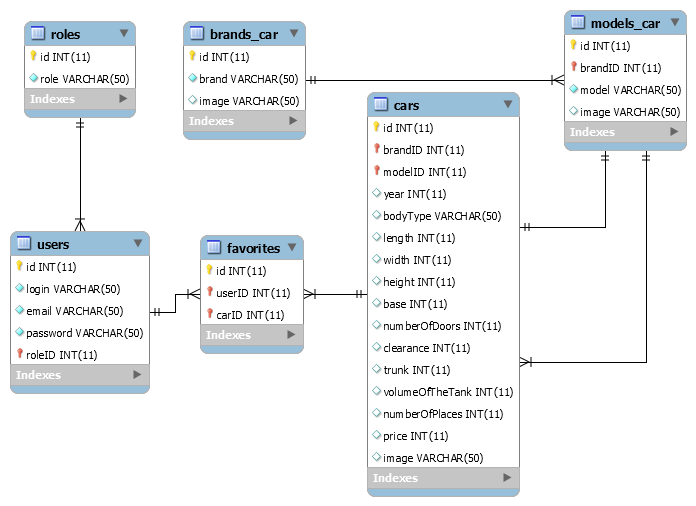
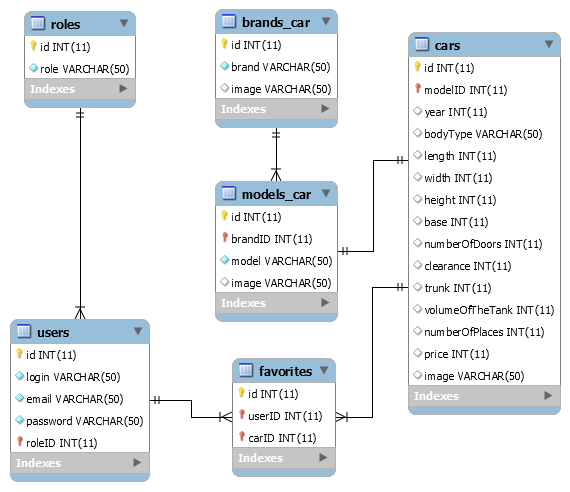
delete column BrandId in table cars. Update sql diagram

diff --git a/src/main/java/by/htp/car_catalog/domain/Car.java b/src/main/java/by/htp/car_catalog/domain/Car.java
@@ -8,7 +8,6 @@ public class Car extends Entity {
 
     private static final long serialVersionUID = 1984566728743718380L;
 
-    private BrandCar brandID;
     private ModelCar modelID;
     @Column(name = "year")
     private int year;
@@ -44,17 +43,15 @@ public class Car extends Entity {
 	super(id);
     }
 
-    public Car(int id, BrandCar brandID, ModelCar modelID) {
+    public Car(int id, ModelCar modelID) {
 	super(id);
-	this.brandID = brandID;
 	this.modelID = modelID;
     }
 
-    public Car(int id, BrandCar brandID, ModelCar modelID, int year, String bodyType, int length, int width, int height,
-	    int base, int numberOfDoors, int clearance, int trunk, int volumeOfTheTank, int numberOfPlaces, int price,
+    public Car(int id, ModelCar modelID, int year, String bodyType, int length, int width, int height, int base,
+	    int numberOfDoors, int clearance, int trunk, int volumeOfTheTank, int numberOfPlaces, int price,
 	    String image) {
 	super(id);
-	this.brandID = brandID;
 	this.modelID = modelID;
 	this.year = year;
 	this.bodyType = bodyType;
@@ -82,16 +79,6 @@ public class Car extends Entity {
     @Override
     public void setId(int id) {
 	super.setId(id);
-    }
-
-    @ManyToOne
-    @JoinColumn(name = "brandID", nullable = true)
-    public BrandCar getBrandID() {
-	return brandID;
-    }
-
-    public void setBrandID(BrandCar brandID) {
-	this.brandID = brandID;
     }
 
     @ManyToOne
@@ -210,11 +197,11 @@ public class Car extends Entity {
 
     @Override
     public String toString() {
-	return "Car [getId()=" + getId() + ", brandID=" + brandID + ", modelID=" + modelID + ", year=" + year
-		+ ", bodyType=" + bodyType + ", length=" + length + ", width=" + width + ", height=" + height
-		+ ", base=" + base + ", numberOfDoors=" + numberOfDoors + ", clearance=" + clearance + ", trunk="
-		+ trunk + ", volumeOfTheTank=" + volumeOfTheTank + ", numberOfPlaces=" + numberOfPlaces + ", price="
-		+ price + ", image=" + image + "]";
+	return "Car [getId()=" + getId() + ", modelID=" + modelID + ", year=" + year + ", bodyType=" + bodyType
+		+ ", length=" + length + ", width=" + width + ", height=" + height + ", base=" + base
+		+ ", numberOfDoors=" + numberOfDoors + ", clearance=" + clearance + ", trunk=" + trunk
+		+ ", volumeOfTheTank=" + volumeOfTheTank + ", numberOfPlaces=" + numberOfPlaces + ", price=" + price
+		+ ", image=" + image + "]";
     }
 
     @Override
@@ -223,7 +210,6 @@ public class Car extends Entity {
 	int result = super.hashCode();
 	result = prime * result + base;
 	result = prime * result + ((bodyType == null) ? 0 : bodyType.hashCode());
-	result = prime * result + ((brandID == null) ? 0 : brandID.hashCode());
 	result = prime * result + clearance;
 	result = prime * result + height;
 	result = prime * result + ((image == null) ? 0 : image.hashCode());
@@ -254,11 +240,6 @@ public class Car extends Entity {
 	    if (other.bodyType != null)
 		return false;
 	} else if (!bodyType.equals(other.bodyType))
-	    return false;
-	if (brandID == null) {
-	    if (other.brandID != null)
-		return false;
-	} else if (!brandID.equals(other.brandID))
 	    return false;
 	if (clearance != other.clearance)
 	    return false;

diff --git a/src/main/java/by/htp/car_catalog/service/impl/ModelServiceImpl.java b/src/main/java/by/htp/car_catalog/service/impl/ModelServiceImpl.java
@@ -48,7 +48,7 @@ public class ModelServiceImpl implements ModelService {
 	if (modelDao.read(brand, model) == null) {
 	    BrandCar brandCar = brandDao.read(brand);
 	    ModelCar modelCar = modelDao.create(new ModelCar(0, brandCar, model, FileEditor.saveFile(uploadedFile)));
-	    carDao.create(new Car(0, modelCar.getBrandID(), modelCar));
+	    carDao.create(new Car(0, modelCar));
 	} else {
 	    throw new RepeatorException();
 	}

diff --git a/src/main/java/by/htp/car_catalog/service/impl/CarServiceImpl.java b/src/main/java/by/htp/car_catalog/service/impl/CarServiceImpl.java
@@ -41,7 +41,7 @@ public class CarServiceImpl implements CarService {
     @Override
     public Car createCar(String brand, String model) {
 	ModelCar modelCar = modelDao.read(brand, model);
-	return carDao.create(new Car(0, modelCar.getBrandID(), modelCar));
+	return carDao.create(new Car(0, modelCar));
     }
 
     @Override
